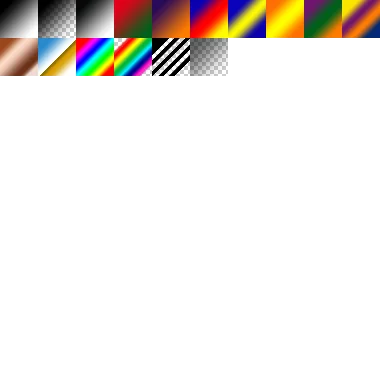
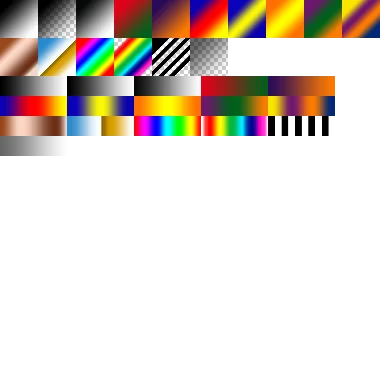
gradient ui

Changed region(s): [[0.0, 0.1737, 0.8974, 0.4342]]

diff --git a/src/css/main.less b/src/css/main.less
@@ -1355,40 +1355,40 @@ content {
 		&.opt-gradient {
 			.value {
 				width: 79px;
-				// --gs: #ffffff 0%, transparent 100%;
 
 				.gradient-strip {
-					// position: relative;
-					// top: -2px;
-					// left: -7px;
-					// width: 56px;
-					// height: 18px;
-					// border-radius: 11px 0px 0px 11px;
+					position: relative;
+					top: -2px;
+					left: -7px;
+					width: 56px;
+					height: 18px;
+					border-radius: 11px 0px 0px 11px;
 
-					// &:before,
-					// &:after {
-					// 	content: "";
-					// 	position: absolute;
-					// 	top: -1px;
-					// 	left: -2px;
-					// 	right: -1px;
-					// 	bottom: -1px;
-					// 	z-index: 2;
-					// 	border-radius: inherit;
-					// 	background: linear-gradient(90deg, var(--gs));
-					// 	border: 1px solid #394445;
-					// }
+					&:before,
+					&:after {
+						content: "";
+						position: absolute;
+						top: -1px;
+						left: -2px;
+						right: -1px;
+						bottom: -1px;
+						z-index: 2;
+						border-radius: inherit;
+						// background: linear-gradient(90deg, var(--gs));
+						border: 1px solid #394445;
+					}
 
-					// &:before {
-					// 	z-index: 1;
-					// 	background: linear-gradient(45deg, #ccc 25%, transparent 25%, transparent 75%, #ccc 75%, #ccc 0), linear-gradient(45deg, #ccc 25%, transparent 25%, transparent 75%, #ccc 75%, #ccc 0), #fff;
-					// 	background-repeat: repeat, repeat;
-					// 	background-position: 0px 0, 5px 5px;
-					// 	background-origin: padding-box, padding-box;
-					// 	background-clip: border-box, border-box;
-					// 	background-size: 10px 10px, 10px 10px;
-					// 	transform: scaleX(1) scaleY(1) scaleZ(1);
-					// }
+					&:before {
+						z-index: 1;
+						background: linear-gradient(45deg, #ccc 25%, transparent 25%, transparent 75%, #ccc 75%, #ccc 0),
+									linear-gradient(45deg, #ccc 25%, transparent 25%, transparent 75%, #ccc 75%, #ccc 0),
+									#fff;
+						background-repeat: repeat, repeat;
+						background-position: 0px 0, 4px 4px;
+						background-origin: padding-box, padding-box;
+						background-clip: border-box, border-box;
+						background-size: 8px 8px;
+					}
 				}
 			}
 		}
@@ -6700,7 +6700,7 @@ content {
 				position: relative;
 			}
 		}
-		
+
 		&.contours {
 			li {
 				position: relative;

diff --git a/src/js/modules/ui.js b/src/js/modules/ui.js
@@ -800,7 +800,8 @@ const UI = {
 				rect = dEl.offset();
 				top = rect.top + Math.random() * 80 | 0;
 				left = rect.left + Math.random() * 80 | 0;
-				let zIndex = 101 + dEl.parent().find(".dialog-box.showing").length;
+				let pDlg = dEl.parent().find(".dialog-box.showing").addClass("has-child"),
+					zIndex = 101 + pDlg.length;
 
 				dEl.css({ top, left, zIndex });
 				// make sure knobs in dialog is synced with its sibling input element
@@ -824,6 +825,8 @@ const UI = {
 					.cssSequence("closing", "animationend", el => {
 						// prevent mouse from triggering mouseover
 						Self.content.removeClass("cover");
+						// re-activate "parent" dialog
+						el.parent().find(".showing.has-child").removeClass("has-child");
 						// reset element
 						el.removeClass("showing closing").css({ top: "", left: "" });
 					});

diff --git a/src/css/inline-dialog.less b/src/css/inline-dialog.less
@@ -23,6 +23,10 @@
 		animation: closing 150ms ease-in-out forwards;
 	}
 
+	&.has-child {
+		pointer-events: none;
+	}
+
 	&.covered {
 		.dlg-content {
 			&:before {